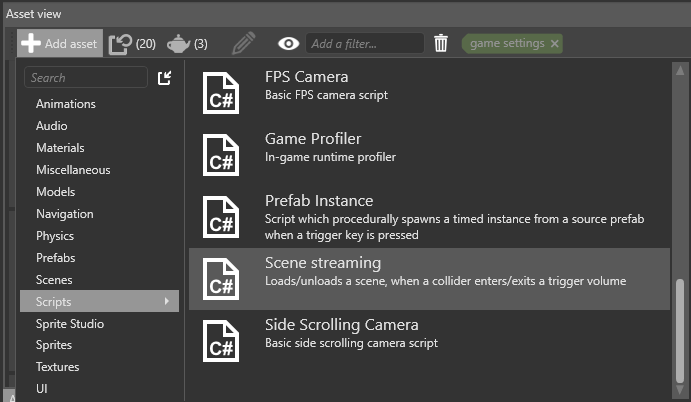
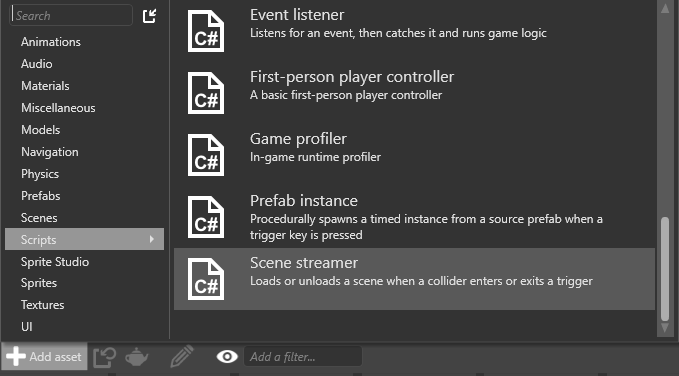
[Game Studio] update screenshots

diff --git a/manual/game-studio/load-scenes.md b/manual/game-studio/load-scenes.md
@@ -31,7 +31,7 @@ Game Studio adds a scene streaming script to your project assets.
 
 2. Create an entity and position it where you want the scene to load.
 
-3. With the entity selected, in the **property grid** (on the righy by default), click **Add component** and select the **scene streaming script**.
+3. With the entity selected, in the **property grid** (on the righy by default), click **Add component** and select the **scene streamer** script.
 
     ![Add script](media/add-scene-streaming-script.png)
 
